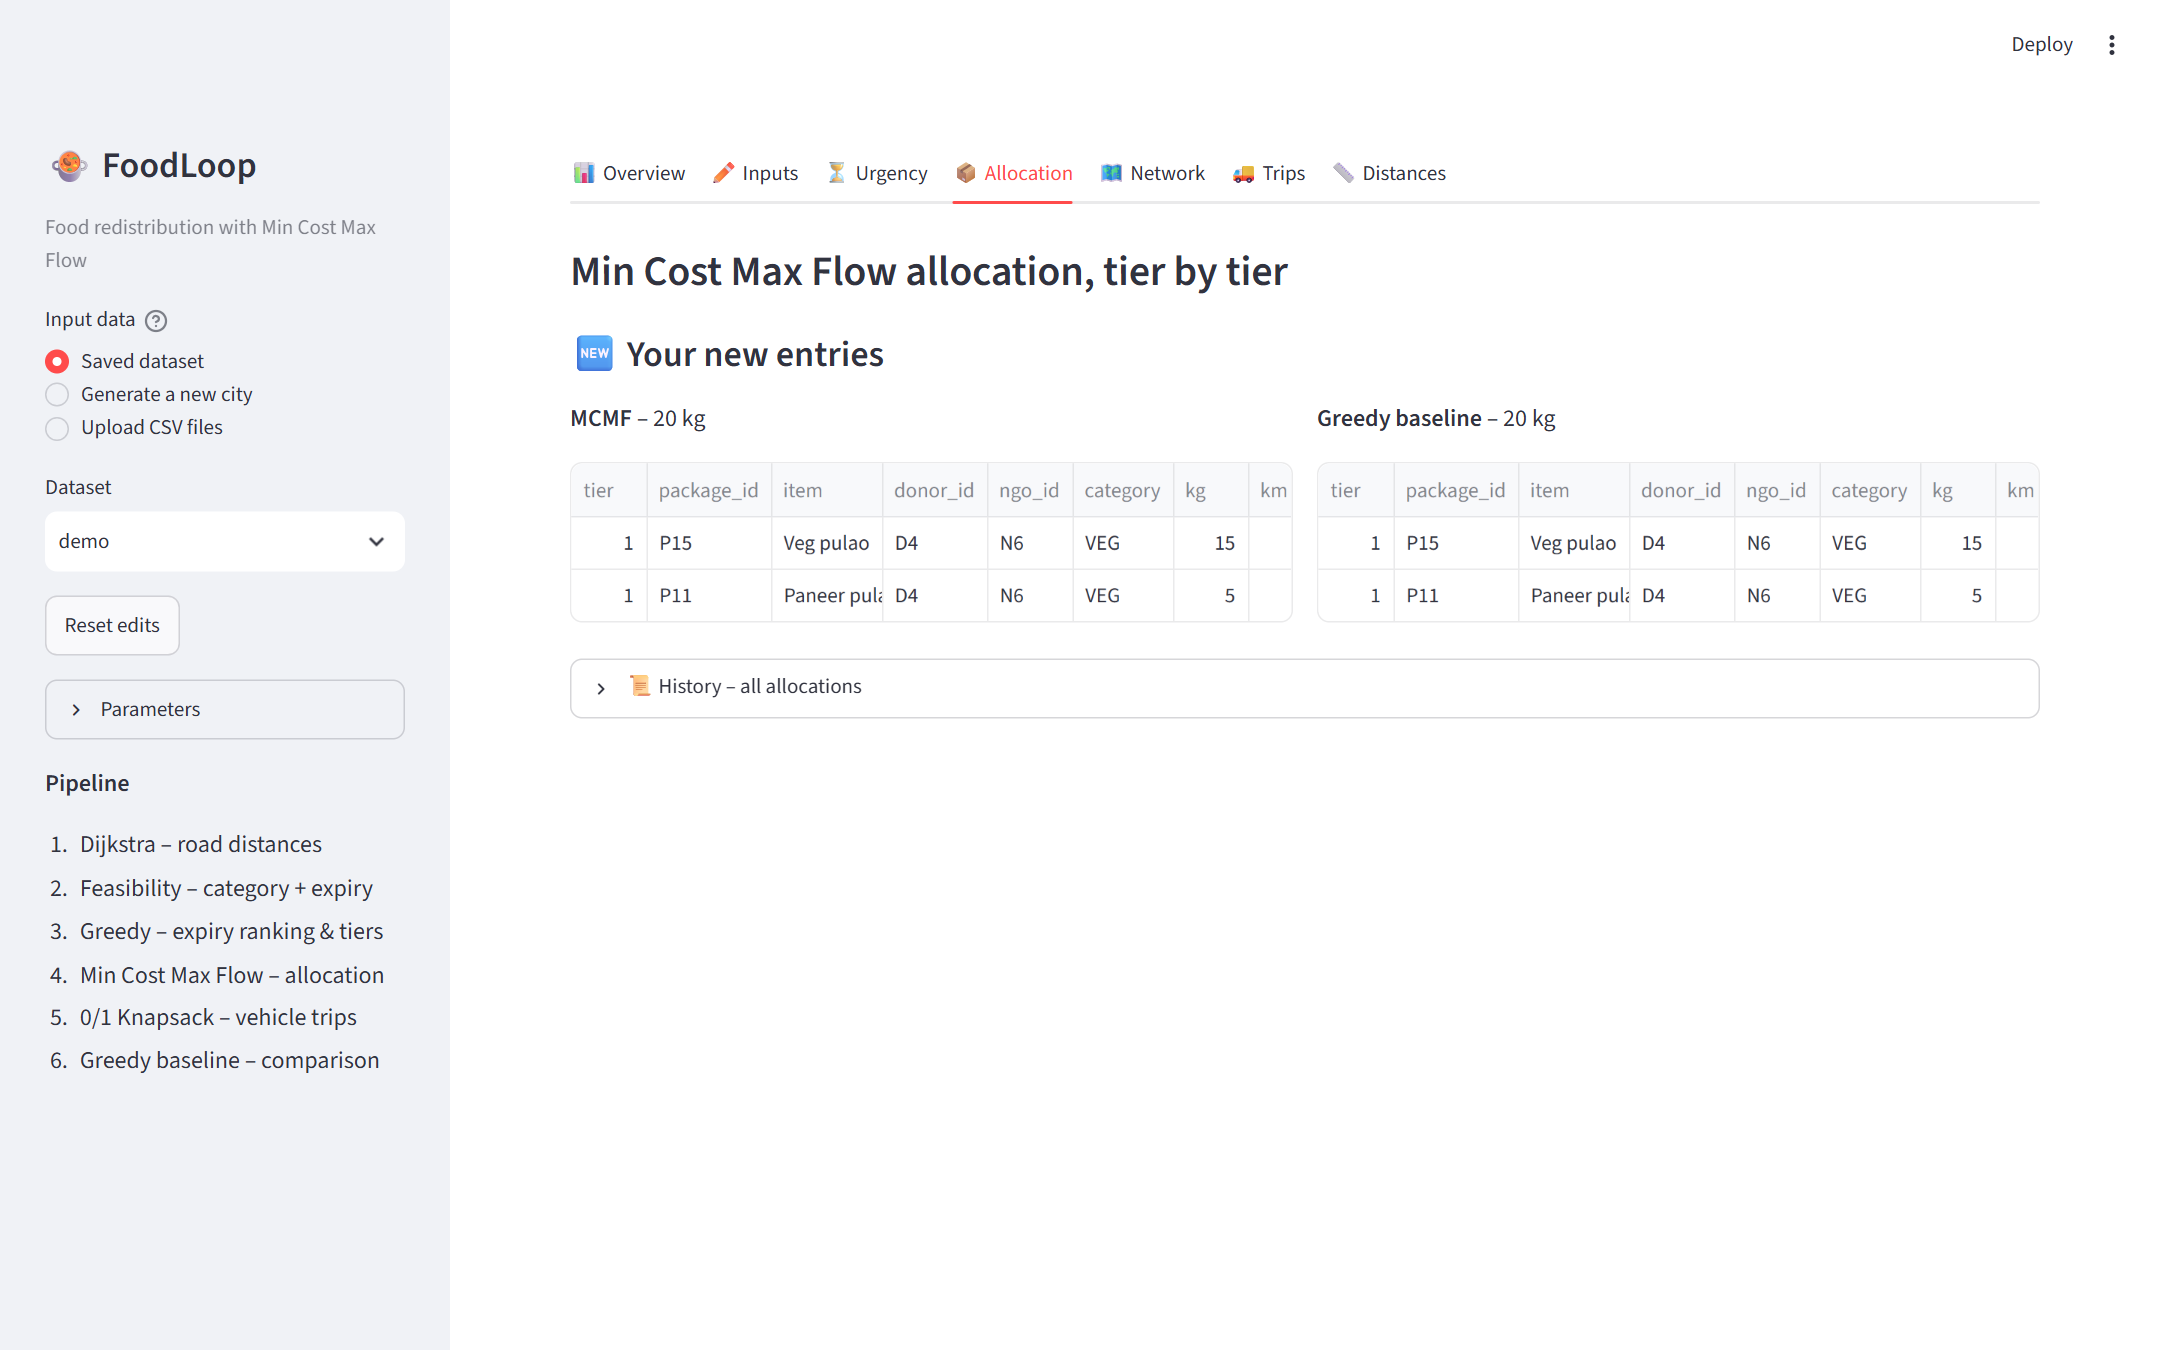
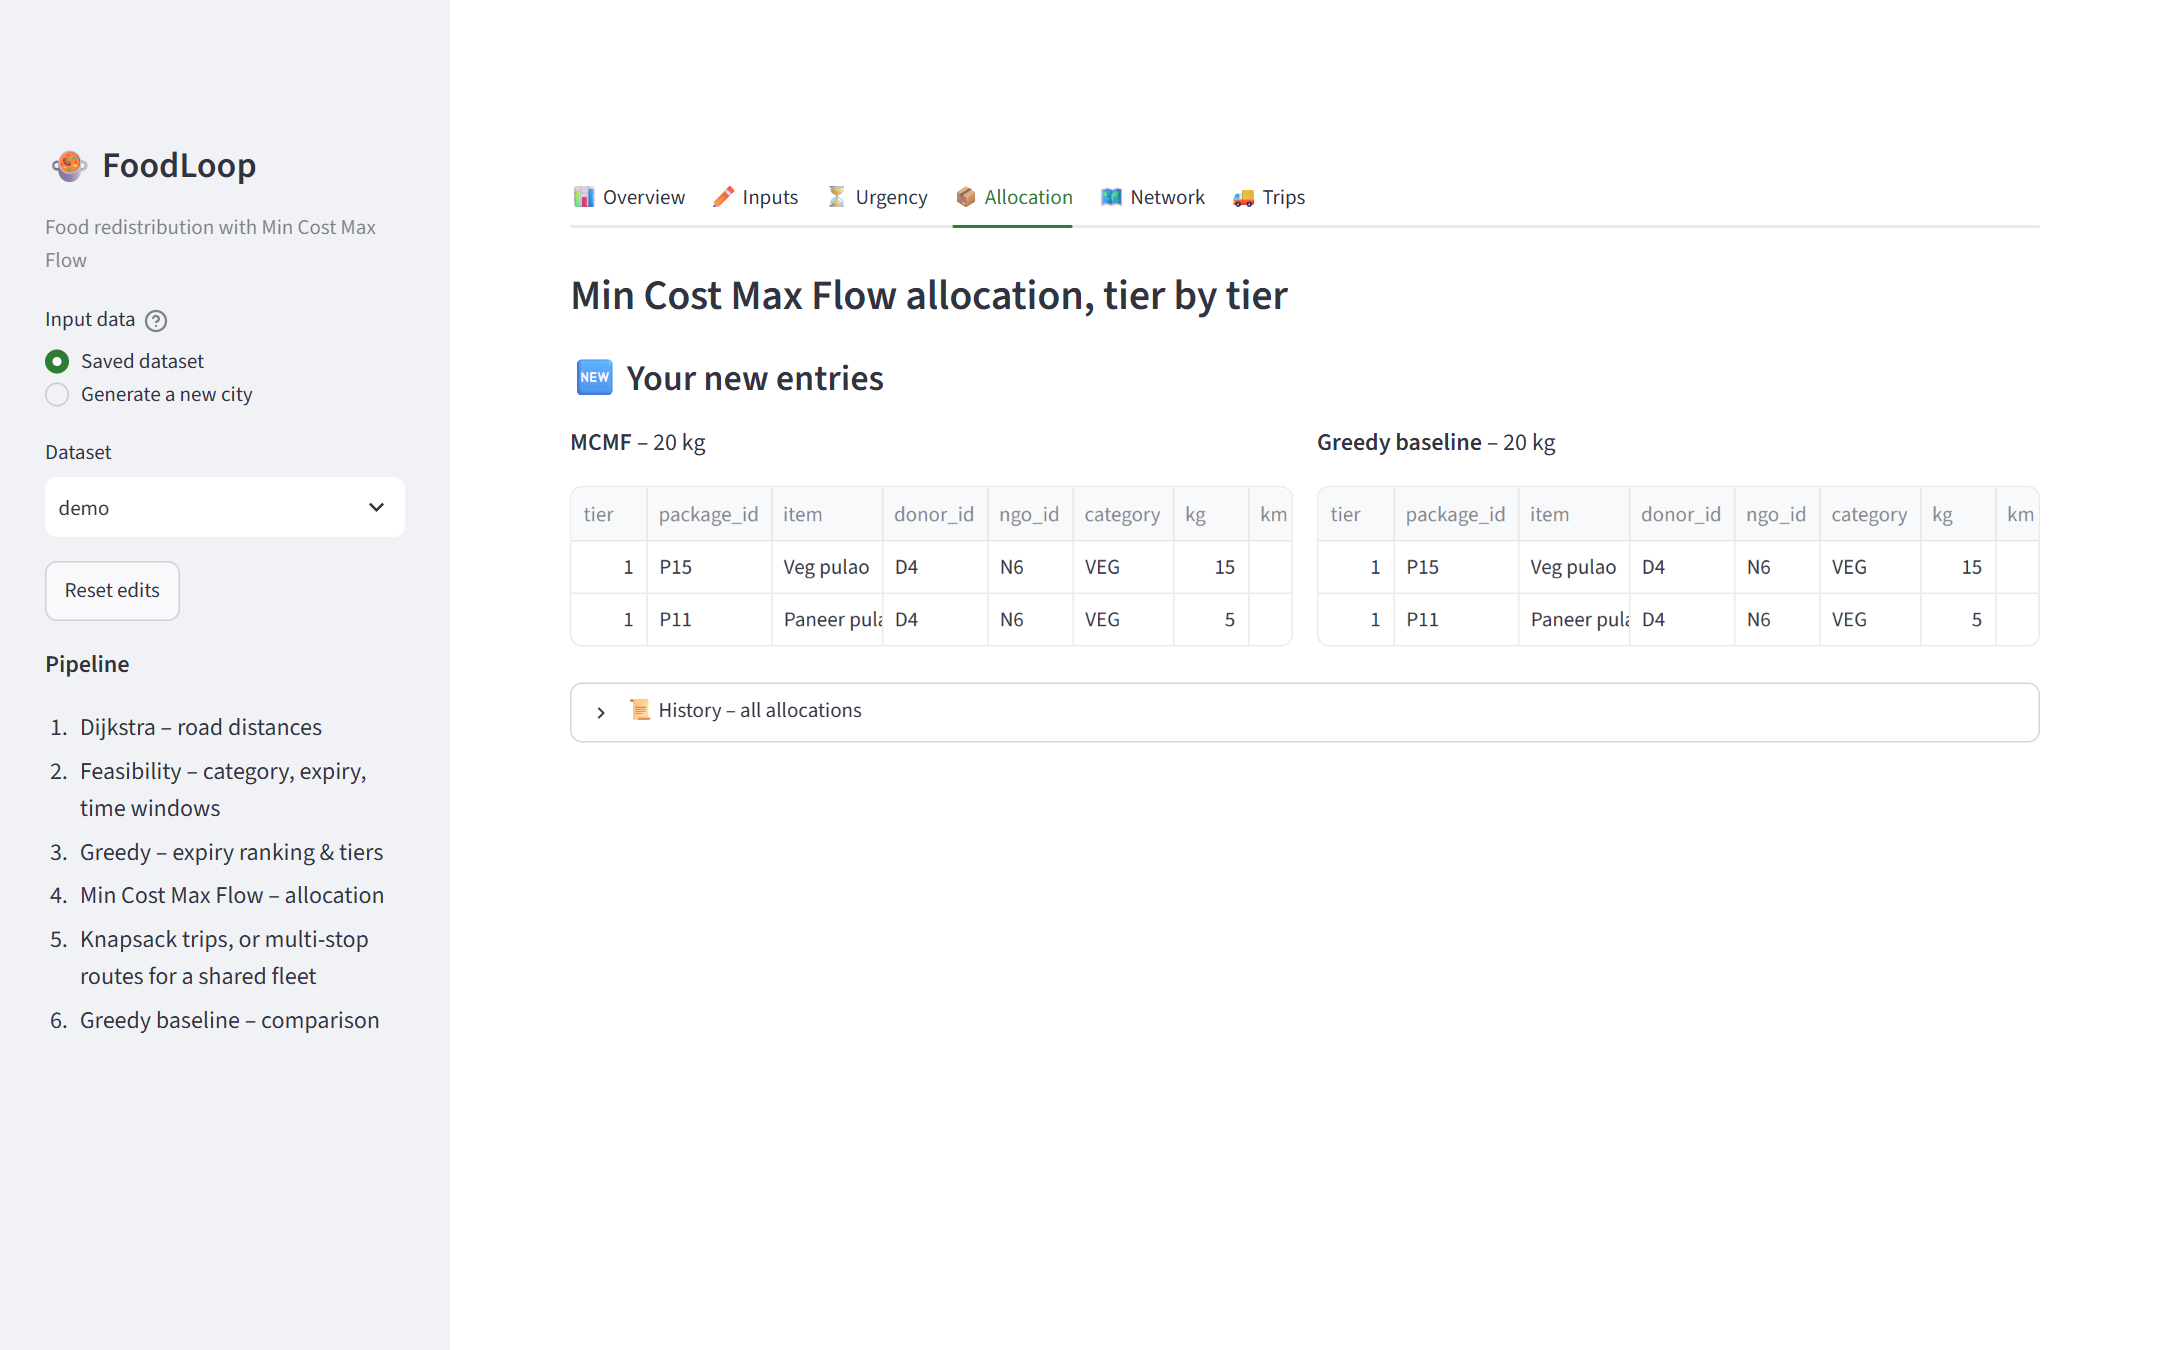
Dashboard ready for deployment; cleaner interface
- Engine path is cross-platform and the C++ engine is compiled with g++ on
  first use (Streamlit Community Cloud); packages.txt installs g++
- .streamlit/config.toml: minimal toolbar, light theme, no usage stats
- Removed: CSV upload, expert Parameters panel (parameters now come from
  each dataset's params.csv), Distances tab, save-as-dataset, Streamlit
  menu/footer; refreshed workflow screenshots

diff --git a/app/streamlit_app.py b/app/streamlit_app.py
@@ -24,7 +24,9 @@ from engine import (CATEGORIES, DATA_DIR, ROOT, TABLES, TEXT_COLUMNS, EngineErro
 sys.path.insert(0, str(ROOT / "tools"))
 from generate_dataset import generate  # noqa: E402
 
-st.set_page_config(page_title="FoodLoop", page_icon="🍲", layout="wide")
+st.set_page_config(page_title="FoodLoop", page_icon="🍲", layout="wide", menu_items={})
+st.markdown("<style>#MainMenu, footer, [data-testid='stToolbar'] {visibility: hidden;}</style>",
+            unsafe_allow_html=True)
 
 DONOR_COLOR = "#2e7d32"
 NGO_COLOR = "#ef6c00"
@@ -73,8 +75,8 @@ if "editor_version" not in st.session_state:
     st.session_state.gen_count = 0
 
 source = st.sidebar.radio(
-    "Input data", ["Saved dataset", "Generate a new city", "Upload CSV files"],
-    help="Whatever you pick here can still be edited in the ✏ Inputs tab.")
+    "Input data", ["Saved dataset", "Generate a new city"],
+    help="Whatever you pick here can still be changed in the ✏ Inputs tab.")
 
 if source == "Saved dataset":
     dataset = st.sidebar.selectbox("Dataset", datasets, index=datasets.index("demo") if "demo" in datasets else 0)
@@ -95,30 +97,6 @@ elif source == "Generate a new city":
     source_key = ("generated", st.session_state.gen_count)
     load_source = lambda: st.session_state.generated  # noqa: E731
 
-else:
-    fill_from = st.sidebar.selectbox("Start from", datasets, index=datasets.index("demo") if "demo" in datasets else 0,
-                                     help="Tables you don't upload are taken from this dataset")
-    files = st.sidebar.file_uploader(
-        "CSV files", type="csv", accept_multiple_files=True,
-        help="Name each file after the table it replaces: " + ", ".join(f"{t}.csv" for t in TABLES)
-             + ". Columns must match the Inputs tab.")
-    uploads = {Path(f.name).stem.lower(): f for f in files or []}
-    unknown = sorted(set(uploads) - set(TABLES))
-    if unknown:
-        st.sidebar.warning("Ignored (unknown table name): " + ", ".join(f"{u}.csv" for u in unknown))
-    uploads = {k: v for k, v in uploads.items() if k in TABLES}
-    if uploads:
-        st.sidebar.success("Using your " + ", ".join(f"{k}.csv" for k in sorted(uploads)))
-    dataset = f"upload (rest from {fill_from})" if uploads else fill_from
-    source_key = ("upload", fill_from, tuple(sorted((k, f.name, f.size) for k, f in uploads.items())))
-
-    def load_source():
-        tables = load_dataset(fill_from)
-        for name, f in uploads.items():
-            f.seek(0)
-            tables[name] = pd.read_csv(f, dtype={c: str for c in TEXT_COLUMNS})
-        return tables
-
 reset = st.sidebar.button("Reset edits", help="Discard every edit and addition and reload the input data")
 if reset or st.session_state.get("source_key") != source_key:
     st.session_state.work = {k: v.copy() for k, v in load_source().items()}
@@ -126,46 +104,23 @@ if reset or st.session_state.get("source_key") != source_key:
     st.session_state.added = {"lots": set(), "ngos": set(), "donors": set()}  # entries added with the forms
     st.session_state.editor_version += 1
 
-defaults = load_params()
-with st.sidebar.expander("Parameters", expanded=False):
-    handling = st.number_input("Handling time (h)", 0.0, 5.0, float(defaults["handling_hours"]), 0.1)
-    b1, b2 = (float(x) for x in defaults["tier_boundaries_hours"].split(";"))
-    tier1 = st.number_input("Tier 1: expiry below (h)", 0.5, 100.0, b1, 0.5)
-    tier2 = st.number_input("Tier 2: expiry below (h)", 1.0, 200.0, b2, 1.0)
-    w1, w2, w3 = (int(x) for x in defaults["tier_weights"].split(";"))
-    weights = st.columns(3)
-    w1 = weights[0].number_input("Weight T1", 1, 10, w1)
-    w2 = weights[1].number_input("Weight T2", 1, 10, w2)
-    w3 = weights[2].number_input("Weight T3", 1, 10, w3)
-    crate = st.number_input("Crate size (kg)", 1, 100, int(defaults["crate_kg"]))
-    shift = st.number_input("Vehicle shift (h)", 0.5, 24.0, float(defaults["shift_hours"]), 0.5)
-    rate = st.number_input("R: allocation rate (₹ per kg·km)", 0.0, 50.0, float(defaults["rate_inr_per_kg_km"]), 0.1)
-    low_load = st.number_input("Low-load threshold (%)", 0.0, 100.0, float(defaults["low_load_pct"]), 5.0)
-
-params = {
-    "handling_hours": handling,
-    "tier_boundaries_hours": f"{tier1};{tier2}",
-    "crate_kg": crate,
-    "tier_weights": f"{w1};{w2};{w3}",
-    "shift_hours": shift,
-    "low_load_pct": low_load,
-    "rate_inr_per_kg_km": rate,
-}
+# Model parameters come from the dataset's own params.csv (e.g. the base paper's costs), else config/params.csv.
+params = load_params(dataset if source == "Saved dataset" else None)
 
 st.sidebar.markdown(
     "**Pipeline**  \n"
     "1. Dijkstra – road distances  \n"
-    "2. Feasibility – category + expiry  \n"
+    "2. Feasibility – category, expiry, time windows  \n"
     "3. Greedy – expiry ranking & tiers  \n"
     "4. Min Cost Max Flow – allocation  \n"
-    "5. 0/1 Knapsack – vehicle trips  \n"
+    "5. Knapsack trips, or multi-stop routes for a shared fleet  \n"
     "6. Greedy baseline – comparison")
 
 # ------------------------------------------------------------------ inputs tab (runs first: its edits feed the engine)
 
 base = st.session_state.work
-tabs = st.tabs(["📊 Overview", "✏ Inputs", "⏳ Urgency", "📦 Allocation", "🗺 Network", "🚚 Trips", "📏 Distances"])
-tab_overview, tab_inputs, tab_urgency, tab_alloc, tab_network, tab_trips, tab_dist = tabs
+tabs = st.tabs(["📊 Overview", "✏ Inputs", "⏳ Urgency", "📦 Allocation", "🗺 Network", "🚚 Trips"])
+tab_overview, tab_inputs, tab_urgency, tab_alloc, tab_network, tab_trips = tabs
 
 with tab_inputs:
     st.subheader("Inputs")
@@ -318,22 +273,6 @@ with tab_inputs:
         st.session_state.editor_version += 1
         st.rerun()
 
-    # ---- keep the current inputs as a dataset of their own
-    st.markdown("#### 💾 Save these inputs as a dataset")
-    s1, s2 = st.columns([3, 1])
-    save_name = s1.text_input("Dataset name", placeholder="e.g. my_scenario", label_visibility="collapsed")
-    if s2.button("Save", width="stretch"):
-        name = save_name.strip().lower()
-        if not re.fullmatch(r"[a-z0-9_\-]{1,40}", name):
-            st.error("Use 1–40 letters, digits, _ or - for the name.")
-        elif name in PROTECTED:
-            st.error(f"“{name}” is a built-in dataset; choose another name.")
-        else:
-            folder = DATA_DIR / name
-            folder.mkdir(parents=True, exist_ok=True)
-            for t, df in current.items():
-                (folder / f"{t}.csv").write_text(to_csv_text(df.dropna(how="all")), encoding="utf-8")
-            st.success(f"Saved to data/{name}. Pick it under **Saved dataset** in the sidebar any time.")
 
 tables = {"nodes": base["nodes"], "roads": base["roads"], "donors": donors, "vehicles": vehicles,
           "packages": packages, "ngos": ngos}
@@ -863,33 +802,3 @@ with tab_trips:
               st.dataframe(und, hide_index=True, width="stretch")
           else:
               st.success("None – every allocated crate arrives before expiry.")
-
-# ------------------------------------------------------------------ distances
-
-with tab_dist:
-    st.subheader("Dijkstra shortest road distances (km)")
-    dm = result["distance_matrix"]
-    matrix = pd.DataFrame(dm["km"], index=dm["donors"], columns=dm["ngos"])
-    routes = pd.DataFrame(result["routes"])
-    routes["path"] = routes["path"].apply(" → ".join)
-
-    def show_matrix(mx):
-        st.dataframe(mx.style.format("{:.1f}", na_rep="unreachable").background_gradient(cmap="Greens_r", axis=None),
-                     width="stretch")
-
-    if has_new:
-        new_heading()
-        rows_ = [d for d in matrix.index if d in focus_donors] or list(matrix.index)
-        cols_ = [n for n in matrix.columns if n in new_ngos] or list(matrix.columns)
-        if not focus_donors:  # only new NGOs: every donor's distance to them
-            rows_ = list(matrix.index)
-        st.caption("Rows: donors of your new food · columns: your new NGOs (all NGOs if you added none).")
-        show_matrix(matrix.loc[rows_, cols_])
-        mine = routes[routes["donor"].isin(focus_donors) & routes["ngo"].isin(cols_) if focus_donors
-                      else routes["ngo"].isin(new_ngos)]
-        st.dataframe(mine, hide_index=True, width="stretch")
-
-    with history("all donors and NGOs"):
-        show_matrix(matrix)
-        st.dataframe(routes, hide_index=True, width="stretch")
-    st.caption(f"{result['road_network']['junctions']} junctions, {result['road_network']['roads']} roads.")

diff --git a/app/engine.py b/app/engine.py
@@ -5,14 +5,17 @@ parameters are written to a temporary folder as CSV files, bin/foodloop.exe is r
 --json, and its JSON output is returned as a dict. All algorithms stay in C++.
 """
 import json
+import os
 import subprocess
+import threading
 import tempfile
 from pathlib import Path
 
 import pandas as pd
 
 ROOT = Path(__file__).resolve().parents[1]
-ENGINE = ROOT / "bin" / "foodloop.exe"
+ENGINE = ROOT / "bin" / ("foodloop.exe" if os.name == "nt" else "foodloop")
+_BUILD_LOCK = threading.Lock()
 DATA_DIR = ROOT / "data"
 PARAMS_FILE = ROOT / "config" / "params.csv"
 
@@ -38,10 +41,26 @@ def load_dataset(name):
     return tables
 
 
-def load_params():
-    """Reads config/params.csv into {key: value as text}."""
-    df = pd.read_csv(PARAMS_FILE, dtype=str)
+def load_params(dataset=None):
+    """{key: value as text} from the dataset's own params.csv if it has one, else config/params.csv."""
+    path = DATA_DIR / dataset / "params.csv" if dataset else None
+    df = pd.read_csv(path if path is not None and path.exists() else PARAMS_FILE, dtype=str)
     return dict(zip(df["key"], df["value"]))
+
+
+def ensure_engine():
+    """Compiles the C++ engine with g++ the first time it is needed (e.g. on a fresh cloud server)."""
+    if ENGINE.exists():
+        return
+    with _BUILD_LOCK:
+        if ENGINE.exists():
+            return
+        ENGINE.parent.mkdir(exist_ok=True)
+        sources = sorted(str(p) for p in (ROOT / "cpp" / "src").glob("*.cpp"))
+        result = subprocess.run(["g++", "-std=c++14", "-O2", "-I", str(ROOT / "cpp" / "include"), *sources,
+                                 "-o", str(ENGINE)], capture_output=True, text=True)
+        if result.returncode != 0:
+            raise EngineError("could not build the C++ engine: " + result.stderr[-2000:])
 
 
 def to_csv_text(df):
@@ -61,8 +80,10 @@ def run_engine(csv_texts, params, repeat=5):
 
     Raises EngineError with the engine's message (for example a validation error) on failure.
     """
-    if not ENGINE.exists():
-        raise EngineError(f"{ENGINE} not found. Run build.bat in the project folder first.")
+    try:
+        ensure_engine()
+    except FileNotFoundError:
+        raise EngineError("the C++ engine is missing and g++ is not installed; run build.bat first")
 
     with tempfile.TemporaryDirectory() as tmp:
         folder = Path(tmp)
